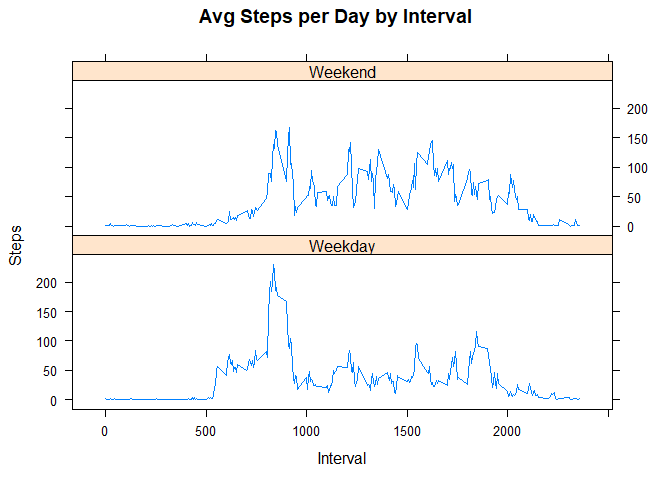
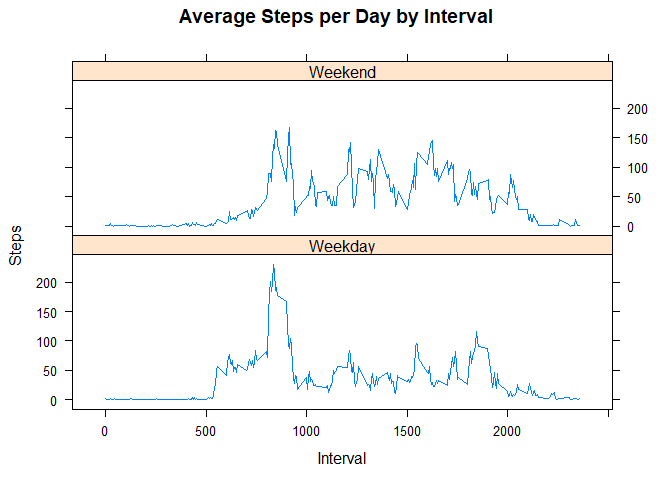
My 2nd commit

Changed region(s): [[0.25, 0.0, 0.75, 0.0625]]

diff --git a/PA1_template.html b/PA1_template.html
@@ -401,8 +401,8 @@ rmedian &lt;- median(steps_by_day$steps)</code></pre>
 <h2>What is the average daily activity pattern?</h2>
 <p>1.A time series plot the Average Number Steps per Day by Interval</p>
 <pre class="r"><code>steps_per_interval&lt;-aggregate(steps~interval, data=activitydata, mean, na.rm=TRUE)
-plot(steps~interval, data=steps_per_interval, type=&quot;l&quot;)</code></pre>
[1 lines of base64/hex data omitted]
+plot(steps~interval, data=steps_per_interval,main = &quot;Average daily steps&quot;, type=&quot;l&quot;)</code></pre>
[1 lines of base64/hex data omitted]
 <ol start="2" style="list-style-type: decimal">
 <li>Find Which interval, on average contains the maximum number of steps</li>
 </ol>
@@ -425,8 +425,8 @@ imputed_activity &lt;- do.call(&quot;rbind&quot;, activity_split)
 imputed_activity &lt;- imputed_activity[order(imputed_activity$date) ,]</code></pre>
 <p>Histogram of the total number of steps taken each day after missing values are imputed and calculate and report the mean and median total number of steps taken per day</p>
 <pre class="r"><code>StepsPerDay_imputed &lt;- tapply(imputed_activity$steps, imputed_activity$date, sum)
-hist(StepsPerDay_imputed, xlab = &quot;Number of Steps&quot;,col=&quot;green&quot;, main = &quot;Histogram: Steps per Day (Imputed data)&quot;)</code></pre>
[1 lines of base64/hex data omitted]
+hist(StepsPerDay_imputed, xlab = &quot;Number of Steps&quot;,col=&quot;green&quot;, main = &quot;Steps per Day (Imputed data)&quot;)</code></pre>
[1 lines of base64/hex data omitted]
 <p>The new mean and median of the data</p>
 <pre class="r"><code>mean_imputed &lt;- mean(StepsPerDay_imputed, na.rm = TRUE)
 median_imputed &lt;- median(StepsPerDay_imputed, na.rm = TRUE)</code></pre>
@@ -441,8 +441,8 @@ median_imputed &lt;- median(StepsPerDay_imputed, na.rm = TRUE)</code></pre>
 imputed_activity$comp = as.factor(ifelse(is.element(weekdays(as.Date(imputed_activity$date)),weekdays), &quot;Weekday&quot;, &quot;Weekend&quot;))
 steps_by_interval_i &lt;- aggregate(steps ~ interval + comp, imputed_activity, mean)
 library(lattice)
-xyplot(steps_by_interval_i$steps ~ steps_by_interval_i$interval|steps_by_interval_i$comp, main=&quot;Avg Steps per Day by Interval&quot;,xlab=&quot;Interval&quot;, ylab=&quot;Steps&quot;,layout=c(1,2), type=&quot;l&quot;) </code></pre>
[1 lines of base64/hex data omitted]
+xyplot(steps_by_interval_i$steps ~ steps_by_interval_i$interval|steps_by_interval_i$comp, main=&quot;Average Steps per Day by Interval&quot;,xlab=&quot;Interval&quot;, ylab=&quot;Steps&quot;,layout=c(1,2), type=&quot;l&quot;) </code></pre>
[1 lines of base64/hex data omitted]
 <p><strong>There is a higher peak earlier on weekdays, and more overall activity on weekends.</strong></p>
 </div>
 

diff --git a/PA1_template.md b/PA1_template.md
@@ -61,7 +61,7 @@ The median of total number of steps taken per day is 10765
 
 ```r
 steps_per_interval<-aggregate(steps~interval, data=activitydata, mean, na.rm=TRUE)
-plot(steps~interval, data=steps_per_interval, type="l")
+plot(steps~interval, data=steps_per_interval,main = "Average daily steps", type="l")
 ```
 
 ![](PA1_template_files/figure-html/unnamed-chunk-4-1.png)<!-- -->
@@ -101,7 +101,7 @@ Histogram of the total number of steps taken each day after missing values are i
 
 ```r
 StepsPerDay_imputed <- tapply(imputed_activity$steps, imputed_activity$date, sum)
-hist(StepsPerDay_imputed, xlab = "Number of Steps",col="green", main = "Histogram: Steps per Day (Imputed data)")
+hist(StepsPerDay_imputed, xlab = "Number of Steps",col="green", main = "Steps per Day (Imputed data)")
 ```
 
 ![](PA1_template_files/figure-html/unnamed-chunk-8-1.png)<!-- -->
@@ -128,7 +128,7 @@ weekdays <- c("Monday", "Tuesday", "Wednesday", "Thursday",
 imputed_activity$comp = as.factor(ifelse(is.element(weekdays(as.Date(imputed_activity$date)),weekdays), "Weekday", "Weekend"))
 steps_by_interval_i <- aggregate(steps ~ interval + comp, imputed_activity, mean)
 library(lattice)
-xyplot(steps_by_interval_i$steps ~ steps_by_interval_i$interval|steps_by_interval_i$comp, main="Avg Steps per Day by Interval",xlab="Interval", ylab="Steps",layout=c(1,2), type="l") 
+xyplot(steps_by_interval_i$steps ~ steps_by_interval_i$interval|steps_by_interval_i$comp, main="Average Steps per Day by Interval",xlab="Interval", ylab="Steps",layout=c(1,2), type="l") 
 ```
 
 ![](PA1_template_files/figure-html/unnamed-chunk-10-1.png)<!-- -->
